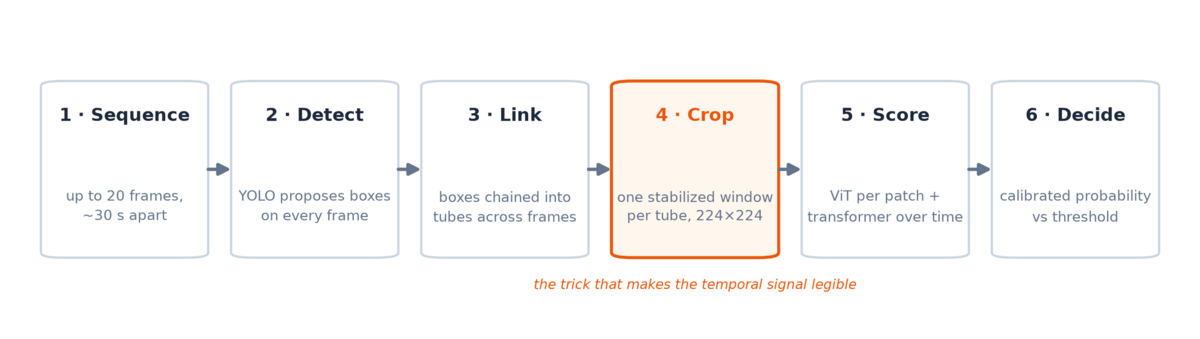
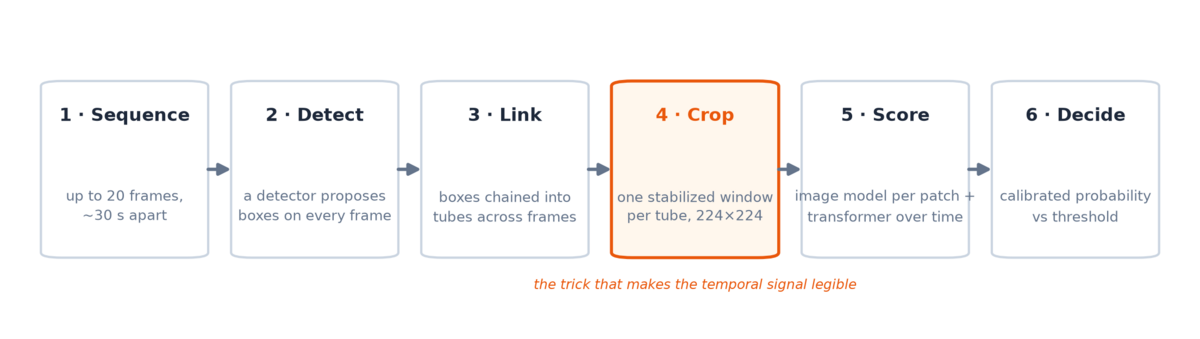
docs(posts): explain acronyms on first use in the temporal model post
Gloss YOLO, bbox, ViT, and logit in prose; replace YOLO/ViT/[CLS]
jargon in the pipeline and architecture figures with plain wording.

Changed region(s): [[0.6475, 0.5605, 0.8017, 0.59], [0.185, 0.6195, 0.3392, 0.649], [0.185, 0.5605, 0.3392, 0.59]]

diff --git a/scripts/posts/smoke-is-a-behavior/make_figures.py b/scripts/posts/smoke-is-a-behavior/make_figures.py
@@ -70,10 +70,10 @@ def bare_axes(fig_w, fig_h, xlim=(0, 100), ylim=(0, 100)):
 def make_pipeline(path):
     stages = [
         ("1 · Sequence", "up to 20 frames,\n~30 s apart", FAINT, INK),
-        ("2 · Detect", "YOLO proposes boxes\non every frame", FAINT, INK),
+        ("2 · Detect", "a detector proposes\nboxes on every frame", FAINT, INK),
         ("3 · Link", "boxes chained into\ntubes across frames", FAINT, INK),
         ("4 · Crop", "one stabilized window\nper tube, 224×224", ORANGE, "white"),
-        ("5 · Score", "ViT per patch +\ntransformer over time", FAINT, INK),
+        ("5 · Score", "image model per patch +\ntransformer over time", FAINT, INK),
         ("6 · Decide", "calibrated probability\nvs threshold", FAINT, INK),
     ]
     fig, ax = bare_axes(13.6, 3.4)
@@ -141,7 +141,7 @@ def make_classifier(path):
     arrow(ax, (50, 64.5), (50, 60.5))
     stage(52, 8, "20 embeddings · 384-dim each", "", "#f1f5f9", FAINT)
     arrow(ax, (50, 51.5), (50, 47.5))
-    stage(32, 15, "Temporal transformer · 2 layers", "learnable [CLS] + positional slots,\npadded frames masked out of attention", "#fff7ed", ORANGE, ORANGE)
+    stage(32, 15, "Temporal transformer · 2 layers", "a learned summary token attends over time,\npadded frames masked out of attention", "#fff7ed", ORANGE, ORANGE)
     arrow(ax, (50, 31.5), (50, 27.5))
     stage(19, 8, "one logit per tube", "", "#f1f5f9", FAINT)
     arrow(ax, (50, 18.5), (50, 13.5))

diff --git a/content/posts/smoke-is-a-behavior/index.md b/content/posts/smoke-is-a-behavior/index.md
@@ -1,6 +1,6 @@
 ---
 title: "Smoke Is a Behavior: Inside Pyronear's Temporal Wildfire Detection Model"
-description: How the temporal smoke verifier works, step by step — YOLO boxes become tubes, stabilized crops make motion legible, and a ViT plus a tiny transformer learn that smoke grows and drifts.
+description: How the temporal smoke verifier works, step by step — detection boxes become tubes, stabilized crops make motion legible, and a vision transformer plus a tiny temporal head learn that smoke grows and drifts.
 date: 2026-06-12
 image: /images/posts/smoke-is-a-behavior/cover.png
 tags: ["AI", "vision", "temporal models", "transformers"]
@@ -10,7 +10,9 @@ In [the previous post]({{< ref "/posts/racing-models-not-opinions" >}}) we
 told the story of *how* the new smoke verifier for
 [Pyronear](https://pyronear.org) was selected: a literature survey, five
 candidate models, one leaderboard, one winner with 4× fewer false alarms.
-This post opens up the winner itself — the **bbox-tube temporal model** now
+This post opens up the winner itself — the **bbox-tube temporal model**
+(*bbox* for the bounding boxes a detector draws around candidate smoke,
+*tube* for the way those boxes are linked across frames) now
 [released as a versioned package](https://huggingface.co/pyronear/temporal-model)
 — and walks through how it judges a sequence of camera frames, stage by
 stage, with figures computed from real wildfire sequences.
@@ -45,8 +47,10 @@ pipeline, then each stage in turn:
 
 ## Detect: propose first, judge later
 
-A YOLO detector — bundled inside the released model package, its weights
-hash-stamped in the manifest — runs over every frame of the sequence with
+A YOLO detector — "You Only Look Once", a family of fast object detectors
+that draw bounding boxes around what they find in a single image — is
+bundled inside the released model package, its weights hash-stamped in the
+manifest. It runs over every frame of the sequence with
 deliberately *permissive* settings: a low confidence threshold and a high
 inference resolution, because distant plumes need both sensitivity and
 pixels.
@@ -137,8 +141,9 @@ best suited for it:
 ![Architecture diagram: patches go through a DINOv2 ViT backbone per frame, then a two-layer temporal transformer reduces the sequence to one logit](./images/classifier.png)
 
 Each patch independently goes through a
-[DINOv2](https://arxiv.org/abs/2304.07193) vision transformer — a backbone
-pre-trained by self-supervision on 142 million images, frozen during
+[DINOv2](https://arxiv.org/abs/2304.07193) Vision Transformer (the "ViT" in
+the diagram) — a backbone pre-trained by self-supervision on 142 million
+images, frozen during
 training except its last block, just enough to adapt its general visual
 features to smoke textures without overfitting a small dataset. Each patch
 becomes a single 384-dimensional embedding. The whole tube — megabytes of
@@ -154,7 +159,8 @@ dimensions encoding the static scene stay nearly constant down each column,
 so whatever *varies* along the time axis is the plume. A small two-layer
 transformer attends over exactly that variation (padded slots for short
 sequences are masked out of attention) and reduces the tube to **one
-logit**. For this tube it answers +10.4 — unambiguously smoke.
+logit** — a single raw, unbounded score, positive for smoke. For this tube
+it answers +10.4 — unambiguously smoke.
 
 ## Decide: a logit is not a verdict
 